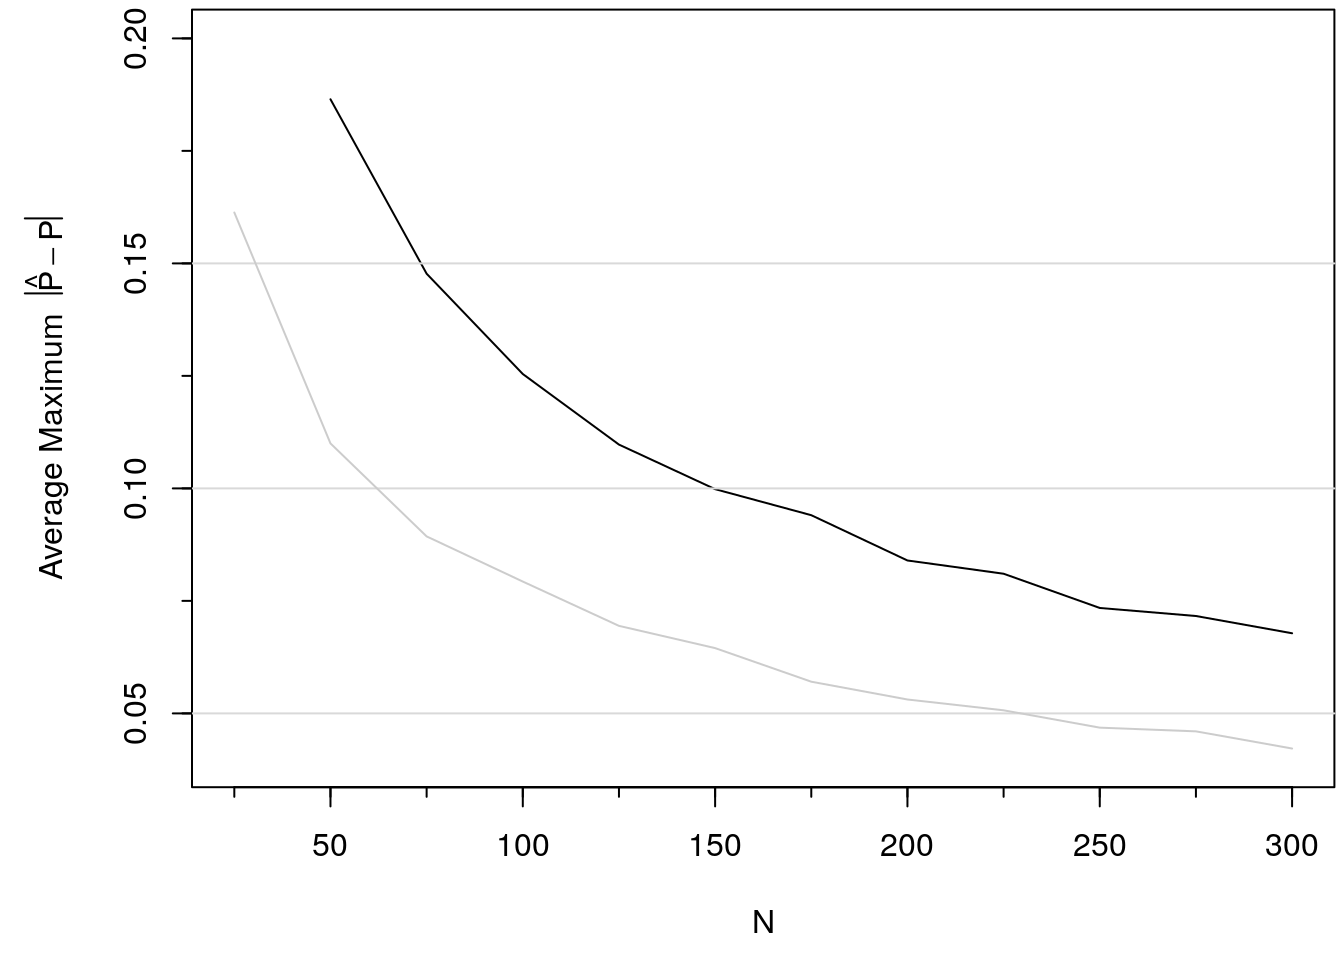
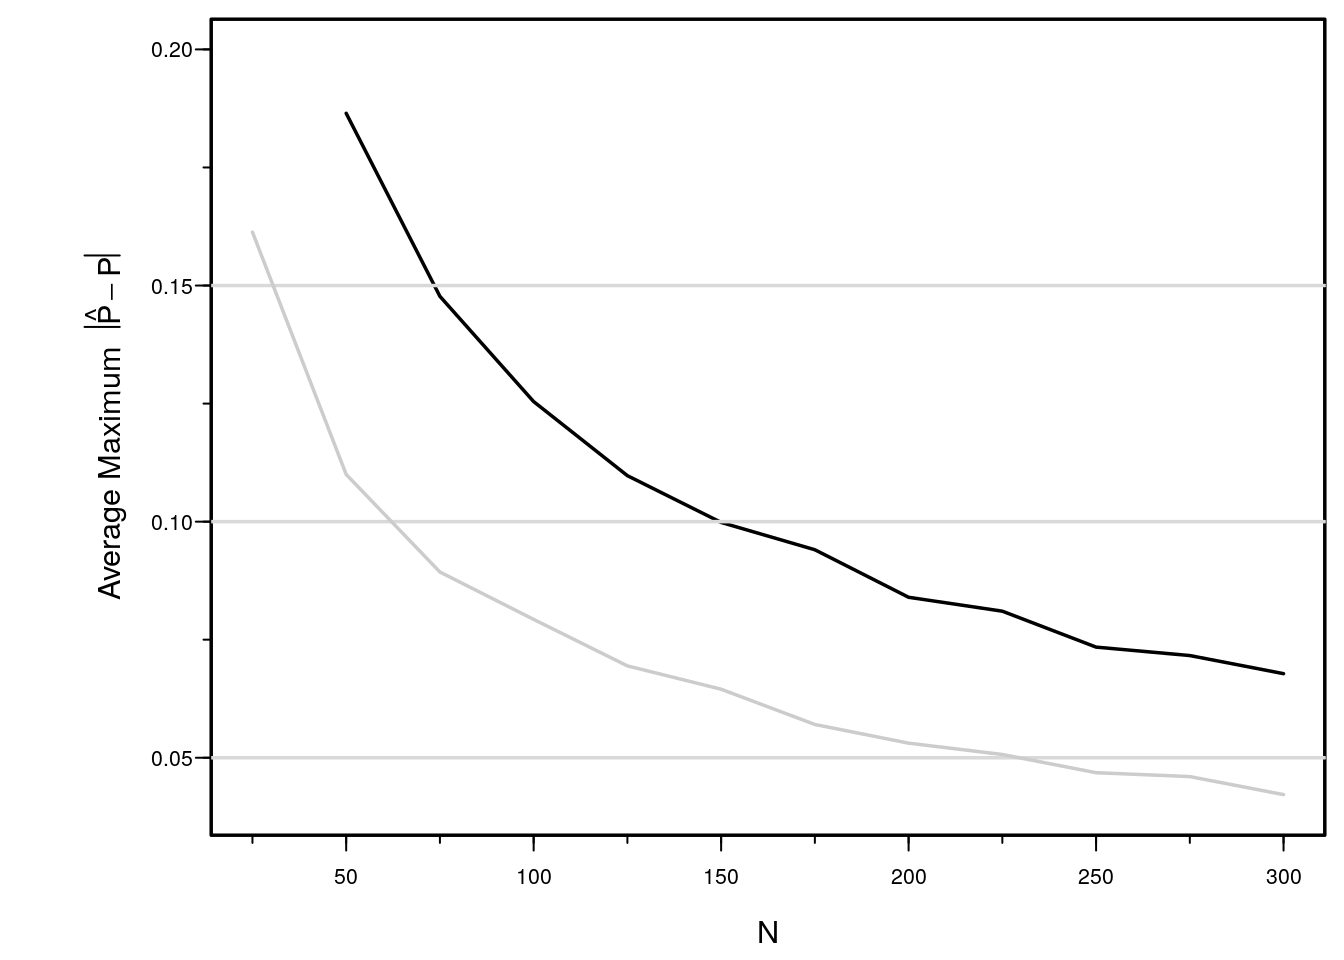
ml-sample-size: used update to knitrSet

diff --git a/content/post/ml-sample-size.html b/content/post/ml-sample-size.html
@@ -4,7 +4,7 @@ author: Frank Harrell
 date: '2018-01-11'
 updated: '2018-01-12'
 slug: ml-sample-size
-summary: 'It is easy to compute the sample size N1 needed to reliably estimate how one predictor relates to an outcome.  It is next to impossible for a machine learning algorithm entertaining hundreds of features to yield reliable answers when the sample size < N1.'
+summary: 'It is easy to compute the sample size N<sub>1</sub> needed to reliably estimate how one predictor relates to an outcome.  It is next to impossible for a machine learning algorithm entertaining hundreds of features to yield reliable answers when the sample size < N<sub>1</sub>.'
 categories: []
 tags:
   - prediction
@@ -43,7 +43,7 @@ Figure 1: Margin for error (length of longer side of asymmetric 0.95 confidence 
 <pre class="r"><code># X  = universe of X values if X considered fixed, in random order
 # xp = grid of x values at which to obtain and judge predictions
 sim &lt;- function(assume = c(&#39;linear&#39;, &#39;smooth&#39;),
-                X,
+                X, 
                 ns=seq(25, 300, by=25), nsim=1000,
                 xp=seq(-1.5, 1.5, length=200), sigma=1.5,
                 xlim=range(ns)) {
@@ -76,7 +76,6 @@ sim &lt;- function(assume = c(&#39;linear&#39;, &#39;smooth&#39;),
         worst &lt;- min(worst, nsuccess)
     }
     if(worst &lt; nsim) cat(&#39;Could only run&#39;, worst, &#39;simulations for one sample size\n&#39;)
-    par(mar=c(4.5, 5, .25, .25))
     plot(ns, maxerr, type=&#39;l&#39;, xlab=&#39;N&#39;, xlim, ylim=c(0.04, 0.2),
          ylab=expression(paste(&#39;Average Maximum  &#39;, abs(hat(P) - P))))
     minor.tick()
@@ -86,7 +85,7 @@ sim &lt;- function(assume = c(&#39;linear&#39;, &#39;smooth&#39;),
 set.seed(1)
 X &lt;- rnorm(300, 0, sd=1.5)   # Allows use of same X&#39;s for both simulations
 errLinear &lt;- sim(assume=&#39;linear&#39;, X=X)</code></pre>
-<pre><code>## Could only run 999 simulations for one sample size</code></pre>
+<pre><code>Could only run 999 simulations for one sample size</code></pre>
 <div class="figure"><span id="fig:logisticsim"></span>
 <img src="/post/ml-sample-size_files/figure-html/logisticsim-1.png" alt="Simulated expected maximum error in estimating probabilities for x ∈ [-1.5, 1.5] with a single normally distributed X with mean zero.  The true relationship between X and P(Y=1 | X) is assumed to be logit(Y=1) = X.  The logistic model fits that are repeated in the simulation assume the relationship is linear, but estimates the slope and intercept.  In reality, we wouldn't know that a relationship is linear, and if we allowed it to be nonlinear there would be a bit more variance to the estimated curve, resulting in larger average absolute errors than what are shown in the figure (see below)." width="672" />
 <p class="caption">
@@ -96,7 +95,7 @@ Figure 2: Simulated expected maximum error in estimating probabilities for x ∈
 <p>But wait—the above simulation assumes that we already knew that the relationship was linear. In practice, most relationships are nonlinear but we don’t know the true transformation. Assume the relationship between X and logit(Y=1) is smooth, we can estimate the relationship reliably with a restricted cubic spline function. Here we use 4 knots, which gives rise to the addition of two nonlinear terms to the model for a total of 3 parameters to estimate not counting the intercept. By estimating these parameters we are estimating the smooth transformation of X and by simulating this process repeatedly we are allowing for “transformation uncertainty”.</p>
 <pre class="r"><code>set.seed(1)
 errSmooth &lt;- sim(assume=&#39;smooth&#39;, X=X, ns=seq(50, 300, by=25), xlim=c(25, 300))</code></pre>
-<pre><code>## Could only run 999 simulations for one sample size</code></pre>
+<pre><code>Could only run 999 simulations for one sample size</code></pre>
 <pre class="r"><code>lines(errLinear, col=gray(.8))</code></pre>
 <div class="figure"><span id="fig:simrcs"></span>
 <img src="/post/ml-sample-size_files/figure-html/simrcs-1.png" alt="Estimated mean maximum (over X) absolute errors in estimating P(Y=1) when X is not assumed to predict the logit linearly (black line).  The earlier estimates when linearity was assumed are shown with a gray scale line.  Restricted cubic splines could not be fitted for n=25." width="672" />
@@ -104,7 +103,7 @@ errSmooth &lt;- sim(assume=&#39;smooth&#39;, X=X, ns=seq(50, 300, by=25), xlim=c
 Figure 3: Estimated mean maximum (over X) absolute errors in estimating P(Y=1) when X is not assumed to predict the logit linearly (black line). The earlier estimates when linearity was assumed are shown with a gray scale line. Restricted cubic splines could not be fitted for n=25.
 </p>
 </div>
-<p>You can see that the sample size must exceed 300 just to have sufficiency reliability in estimating probabilities just over the range of X of [-1.5, 1.5] when we do not know that the relationship is linear and we allow it to be nonlinear.</p>
+<p>You can see that the sample size must exceed 300 just to have sufficient reliability in estimating probabilities just over the range of X of [-1.5, 1.5] when we do not know that the relationship is linear and we allow it to be nonlinear.</p>
 <p>The morals of the story are</p>
 <ul>
 <li>Beware of claims of good predictive ability for ML algorithms when sample sizes are not huge in relationship to the number of candidate features</li>

diff --git a/content/post/percent.md b/content/post/percent.md
@@ -15,7 +15,7 @@ header:
 <style>
 img {
   height: auto;
-  max-width: 300px;
+  max-width: 150px;
   margin-left: auto;
   margin-right: auto;
   display: block;
@@ -27,6 +27,9 @@ When a quantity doubles, it gets back to its original value by halving.  When in
 I like fractions like 3/4 , or the decimal equivalent 0.75.  Ratios are symmetric.  Whereas an increase of 33.33% is balanced by a decrease of 25%, an increase by a factor of 4/3 is balanced by a decrease to a factor of 3/4 .  If you put 100 dollars into an account that yields 3% interest annually, you will have 100 * (1.03<sup>10</sup>) or 134 dollars
 after 10 years.  To get back to your original value you'd have to lose 2.91% per year.
 
+Chaining together relative increases is simple with ratios.  An increase by a factor of 1.5 followed by an increase by a factor of 1.4 is an increase by a factor of 1.5 * 1.4 or 2.1.  A 50% increase followed by a 40% increase is an increase of 110%.
+
+
 Many numbers that we quote are probabilities, and a probability is formally a number between 0 and 1.  So I don't like "the chance of rain is 10%" but prefer "the chance of rain is 0.1 or 1/10".  When discussing statistical analyses it is especially irksome to see statements such as "significance levels of 5% or power of 90%".  Probabilities are being discussed, so I prefer 0.05 and 0.9.
 
 I have seen clinicians confused over statements such as "the chance of a stroke is 0.5%", interpreting this as 50%.  If we say "the chance of a stroke is 0.005" such confusion is less likely.  And I don't need percent signs everywhere.
@@ -37,6 +40,6 @@ Percent change has even more problems than percent.  I have often witness confus
 - The chance of stroke increased by 0.01
 - The chance of stroke increased by a factor of 1.5
 
-It can be a bit confusing when selecting wording for a fold-change decrease.  If the chance of stroke decreased from 0.03 to 0.02, the clearest statement (other than just giving the two chances) would be "the chance of stroke increased by a factor of 2/3" but by convention we say "the chance of stroke decreased by a factor of 2/3".  To be perfectly clear we could use the form "the chance of stroke was multiplied by 2/3" or "changed by a factor of 2/3".
+We need to achieve clarity by settling on a convention for wording fold-change decreases.  If the chance of stroke decreases from 0.03 to 0.02 and we feel compelled to summarize the *relative* decreaes in risk, we could say that risk of stroke decreased by a factor of 1.5.  But even though it looks a bit awkward, I think it would be clearest to say the following, if 0.02 corresponded to treatment A and 0.03 corresponded to treatment B: treatment A multiplied the risk of stroke by 2/3 in comparison to treatment A.
 
-Note that chaining together relative increases is simple with ratios.  An increase by a factor of 1.5 followed by an increase by a factor of 1.4 is an increase by a factor of 1.5 * 1.4 or 2.1.  A 50% increase followed by a 40% increase is an increase of 110%.
+Many quantities reported in the scientific literature are naturally ratios.  For example, odds ratios and hazard ratios are commonly used.  How best should we present a treatment B : treatment A hazard ratio of 0.75?  I submit that it should be "the ratio of stroke hazard rate for treatment B in comparison to treatment A was estimated at 0.75" or for short "the B:A stroke hazard ratio was 0.75".  There's no need to say that there was a 25% reduction in stroke hazard rate.
